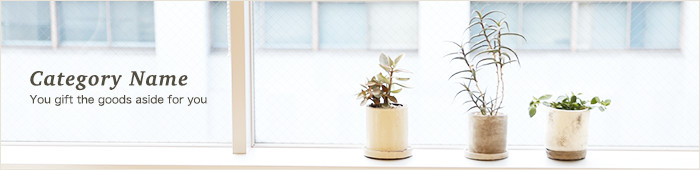
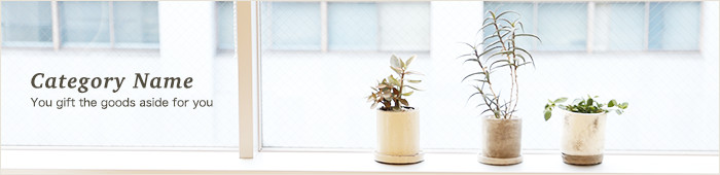
add img-size

diff --git a/css/shop.css b/css/shop.css
@@ -326,7 +326,8 @@ body {
     opacity: 0.5; }
 
 #head_img {
-  margin-bottom: 10px; }
+  margin-bottom: 10px;
+  width: 100%; }
   @media (min-width: 550px) {
     #head_img .head_img_sp {
       display: none; } }
@@ -424,7 +425,7 @@ body {
       padding: 30px 60px; } }
   @media (max-width: 549px) {
     #product {
-      padding: 40px 0px; } }
+      padding: 40px 10px; } }
   #product .name_bar {
     display: flex;
     justify-content: space-between;

diff --git a/css/shop.scss b/css/shop.scss
@@ -563,6 +563,7 @@ body{
 
 #head_img{
   margin-bottom: 10px;
+  width: 100%;
 
   @media(min-width: 550px){
     .head_img_sp{
@@ -719,7 +720,7 @@ body{
   }
   
   @media(max-width: 549px){
-    padding: 40px 0px;
+    padding: 40px 10px;
   }
   
   .name_bar{
